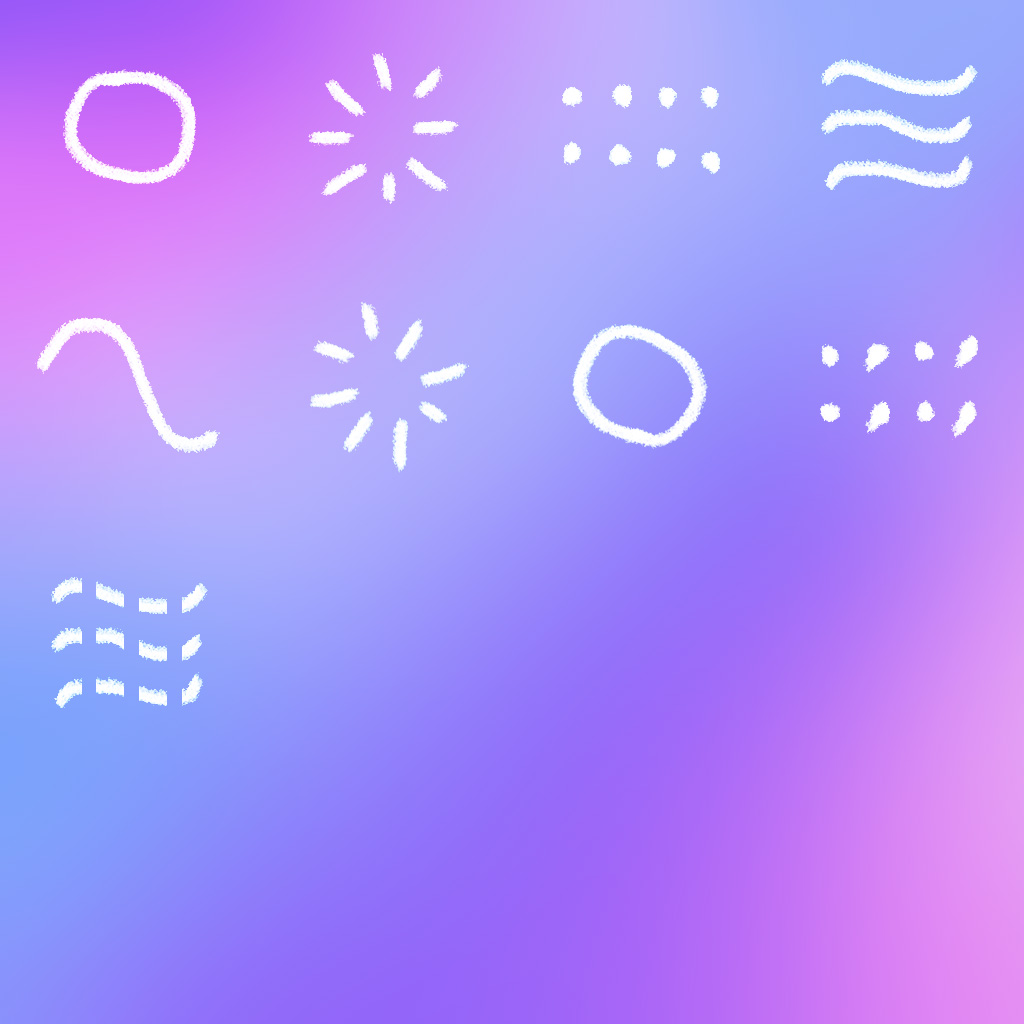
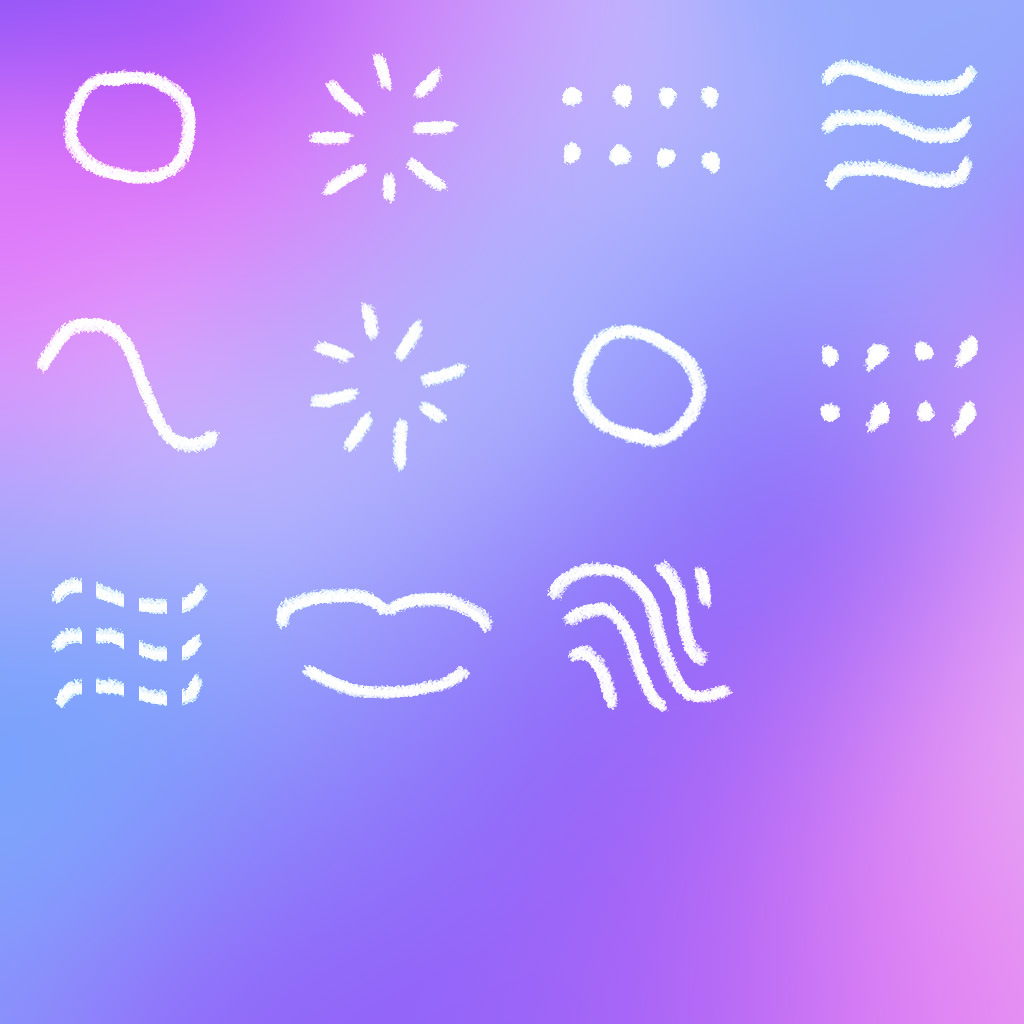
new sounds and deploy

diff --git a/src/audio/loopEngine.js b/src/audio/loopEngine.js
@@ -6,7 +6,7 @@ export function createLoopEngine() {
   let tracks = [];
   let activeState = new Array(TARGET_LOOP_COUNT).fill(false);
   let isPlaying = false;
-  let unlocked = false;
+  let hasStartedTransport = false;
 
   const fadeTo = (gainNode, value, duration = 0.04) => {
     if (!audioContext || !gainNode) {
@@ -33,12 +33,47 @@ export function createLoopEngine() {
     }
   };
 
+  const fetchAndDecode = async (url) => {
+    if (!url) {
+      return null;
+    }
+
+    const response = await fetch(url);
+    if (!response.ok) {
+      throw new Error(`Could not load loop file: ${url}`);
+    }
+
+    const arrayBuffer = await response.arrayBuffer();
+    return audioContext.decodeAudioData(arrayBuffer);
+  };
+
+  const createSourceForTrack = (track, offset = 0) => {
+    if (!track?.buffer) {
+      return null;
+    }
+
+    const source = audioContext.createBufferSource();
+    source.buffer = track.buffer;
+    source.loop = true;
+    source.connect(track.gain);
+
+    track.source = source;
+    track.started = true;
+    source.start(offset, 0);
+
+    return source;
+  };
+
   const stopTrackAudio = () => {
     tracks.forEach((track) => {
-      track.audio.pause();
-      track.audio.currentTime = 0;
-      track.audio.src = "";
-      track.source.disconnect();
+      if (track.source) {
+        try {
+          track.source.stop();
+        } catch (_error) {
+          // Source may already be stopped.
+        }
+        track.source.disconnect();
+      }
       track.gain.disconnect();
     });
     tracks = [];
@@ -48,6 +83,7 @@ export function createLoopEngine() {
     stopTrackAudio();
     activeState = new Array(TARGET_LOOP_COUNT).fill(false);
     isPlaying = false;
+    hasStartedTransport = false;
   };
 
   const loadPreset = async (preset) => {
@@ -59,25 +95,19 @@ export function createLoopEngine() {
       loopUrls.push(null);
     }
 
-    tracks = loopUrls.map((url) => {
-      const audio = new Audio(url ?? "");
-      audio.loop = true;
-      audio.crossOrigin = "anonymous";
-      audio.preload = "auto";
-
-      const source = audioContext.createMediaElementSource(audio);
+    const buffers = await Promise.all(loopUrls.map((url) => fetchAndDecode(url)));
+    tracks = buffers.map((buffer) => {
       const gain = audioContext.createGain();
       gain.gain.value = 0;
 
-      source.connect(gain);
       gain.connect(masterGain);
 
-      return { audio, source, gain };
+      return { buffer, source: null, gain, started: false };
     });
 
     activeState = new Array(TARGET_LOOP_COUNT).fill(false);
     isPlaying = false;
-    unlocked = false;
+    hasStartedTransport = false;
   };
 
   const start = async () => {
@@ -86,39 +116,41 @@ export function createLoopEngine() {
     }
 
     await ensureContext();
+    if (!hasStartedTransport) {
+      const startAt = audioContext.currentTime + 0.03;
+      tracks.forEach((track, index) => {
+        createSourceForTrack(track, startAt);
+        fadeTo(track.gain, activeState[index] ? 1 : 0, 0.02);
+      });
+      hasStartedTransport = true;
+    } else if (audioContext.state === "suspended") {
+      await audioContext.resume();
+    }
 
-    const starts = tracks.map((track) => {
-      track.audio.currentTime = 0;
-      return track.audio.play();
-    });
-
-    await Promise.all(starts);
-    unlocked = true;
     isPlaying = true;
-
-    tracks.forEach((track, index) => {
-      fadeTo(track.gain, activeState[index] ? 1 : 0);
-    });
   };
 
   const setPlaying = async (nextPlaying) => {
-    if (!tracks.length) {
+    if (!tracks.length || !audioContext) {
       return;
     }
 
     if (nextPlaying) {
-      if (!unlocked) {
+      if (!hasStartedTransport) {
         await start();
         return;
       }
 
-      await ensureContext();
-      await Promise.all(tracks.map((track) => track.audio.play()));
+      if (audioContext.state === "suspended") {
+        await audioContext.resume();
+      }
       isPlaying = true;
       return;
     }
 
-    tracks.forEach((track) => track.audio.pause());
+    if (audioContext.state === "running") {
+      await audioContext.suspend();
+    }
     isPlaying = false;
   };
 
@@ -128,9 +160,7 @@ export function createLoopEngine() {
     }
     activeState[index] = isActive;
 
-    if (isPlaying) {
-      fadeTo(tracks[index].gain, isActive ? 1 : 0);
-    }
+    fadeTo(tracks[index].gain, isActive ? 1 : 0);
   };
 
   const getActive = () => [...activeState];

diff --git a/vite.config.js b/vite.config.js
@@ -1,6 +1,9 @@
 import { defineConfig } from "vite";
 import react from "@vitejs/plugin-react";
 
+const repoName = process.env.GITHUB_REPOSITORY?.split("/")[1];
+
 export default defineConfig({
+  base: process.env.GITHUB_ACTIONS && repoName ? `/${repoName}/` : "/",
   plugins: [react()]
 });

diff --git a/index.html b/index.html
@@ -3,7 +3,7 @@
   <head>
     <meta charset="UTF-8" />
     <meta name="viewport" content="width=device-width, initial-scale=1.0" />
-    <title>BeatBuild</title>
+    <title>beatbuild</title>
   </head>
   <body>
     <div id="root"></div>